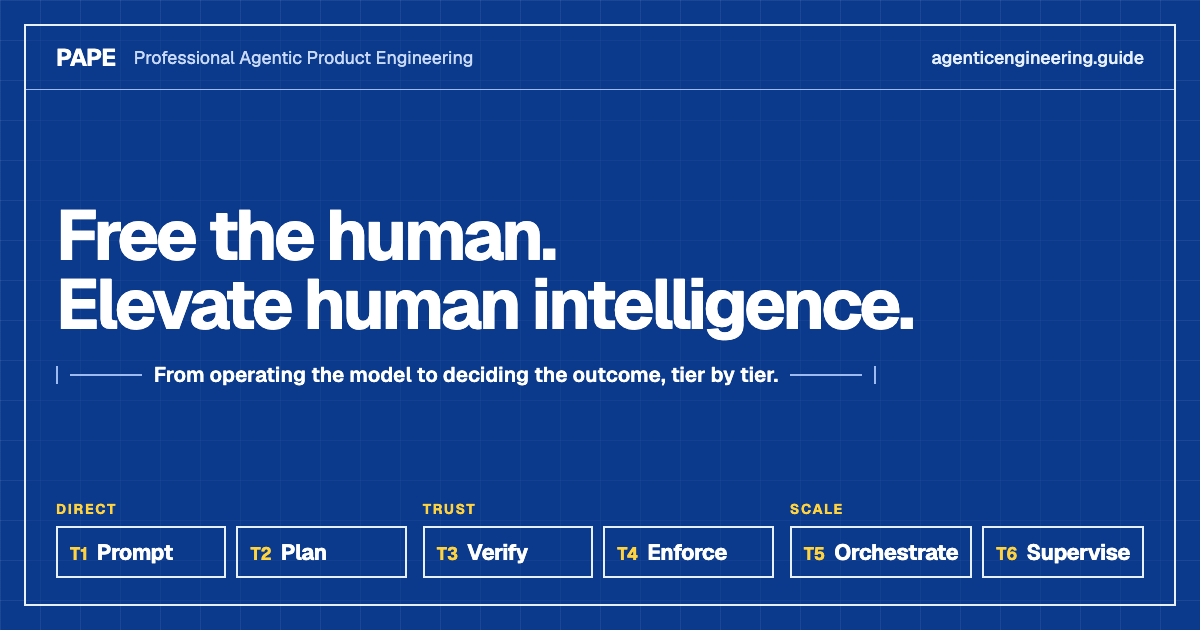
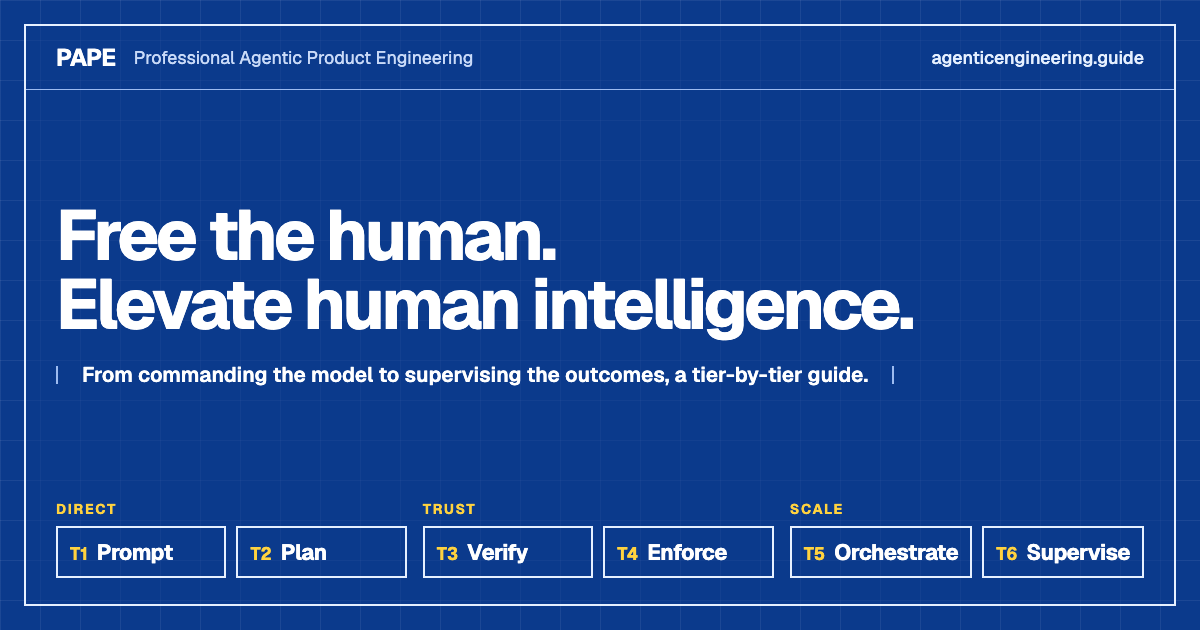
guide: new subline — from commanding the model to supervising the outcomes
Swapped in guide.md (synced to the plugin, now 1.0.1), the OG card
(regenerated), DESIGN.md and the wiki's Six Tiers page, with a log entry.

Claude-Session: https://claude.ai/code/session_01SnBLMw6vnayDbfUH7ezPv3

Changed region(s): [[0.0617, 0.573, 0.74, 0.6333]]

diff --git a/web/DESIGN.md b/web/DESIGN.md
@@ -80,7 +80,7 @@ To change a color, edit the hex in `SCHEMES` — never the generated CSS. The bu
 
 Built in `build.mjs` (`p.kind === 'home'`), read from `guide.md` by `homeData()`. Order:
 
-1. **Hero:** title "Professional Agentic Product Engineering", a ruler line carrying the subline ("From operating the model to deciding the outcome, tier by tier."), the 5-line opener, the deep-dive line ("From coding features to designing systems…"), and the headline "Free the human. Elevate human intelligence."
+1. **Hero:** title "Professional Agentic Product Engineering", a ruler line carrying the subline ("From commanding the model to supervising the outcomes, a tier-by-tier guide."), the 5-line opener, the deep-dive line ("From coding features to designing systems…"), and the headline "Free the human. Elevate human intelligence."
 2. **The six tiers:** three stage columns (Direct · Trust · Scale), each tier a spec card: T-number, name, "You stop" / "You do instead", linking to its tier page. CSS subgrid lines the cards up across columns.
 3. **Buttons:** Start at T1 · How it works · All N tips · Learn it with your agent.
 4. **Audit your harness (self-audit radar):** six 0–5 sliders beside a hexagon radar SVG. Shows **Strongest** (highest-rated tier[s]) and **Next tier** = the lowest-numbered tier rated ≤2, as a link. **No total and no average**, which is the guide's own audit rule. Ratings saved in `pape.selfAudit`. Points to `/pape:harness-audit` for a real audit. Radar maths is duplicated in build.mjs (server render) and app.js (live); keep them in sync.

diff --git a/wiki/concepts/The Six Tiers.md b/wiki/concepts/The Six Tiers.md
@@ -1,9 +1,9 @@
 # The Six Tiers
 **Source:** [guide.md](../../guide.md) (root of repo — canonical, not copied here)
 **Created:** 2026-07-04
-**Updated:** 2026-10-22
+**Updated:** 2026-10-23
 
-The guide opens with them: **Free the human. Elevate human intelligence.** — *from operating the model to deciding the outcome, tier by tier.*
+The guide opens with them: **Free the human. Elevate human intelligence.** — *from commanding the model to supervising the outcomes, a tier-by-tier guide.*
 
 The opener behind it: writing code was maybe never the human job; understanding the problem and deciding what's worth building was. Machines can write the code now, if we build the system around them — and each tier hands one more manual chore to that system while the human keeps the judgment. The guide calls itself a deep dive into that agentic shift, from coding features to designing systems.
 

diff --git a/wiki/log.md b/wiki/log.md
@@ -126,3 +126,7 @@ No tier or tip changed — counts stay at 62. Plugin bumped 0.57.0 → 0.57.1; b
 ## [2026-10-22] edit | T1 names the chore it hands over
 
 Tier 1's "You stop" was a dash; it now reads *writing the code by hand* — the chore the guide's opener is about. Updated [[Tier 1 — Prompt]] and [[The Six Tiers]]. No tip changed.
+
+## [2026-10-23] edit | New subline under the headline
+
+The line under **Free the human. Elevate human intelligence.** now reads *From commanding the model to supervising the outcomes, a tier-by-tier guide.* Updated [[The Six Tiers]]. No tip changed.

diff --git a/guide.md b/guide.md
@@ -14,7 +14,7 @@ That system is what this guide teaches: tier by tier, it takes over a chore and 
 
 > **Free the human. Elevate human intelligence.**
 >
-> From operating the model to deciding the outcome, tier by tier.
+> From commanding the model to supervising the outcomes, a tier-by-tier guide.
 
 ### Contents
 

diff --git a/plugins/pape/guide.md b/plugins/pape/guide.md
@@ -14,7 +14,7 @@ That system is what this guide teaches: tier by tier, it takes over a chore and 
 
 > **Free the human. Elevate human intelligence.**
 >
-> From operating the model to deciding the outcome, tier by tier.
+> From commanding the model to supervising the outcomes, a tier-by-tier guide.
 
 ### Contents
 
